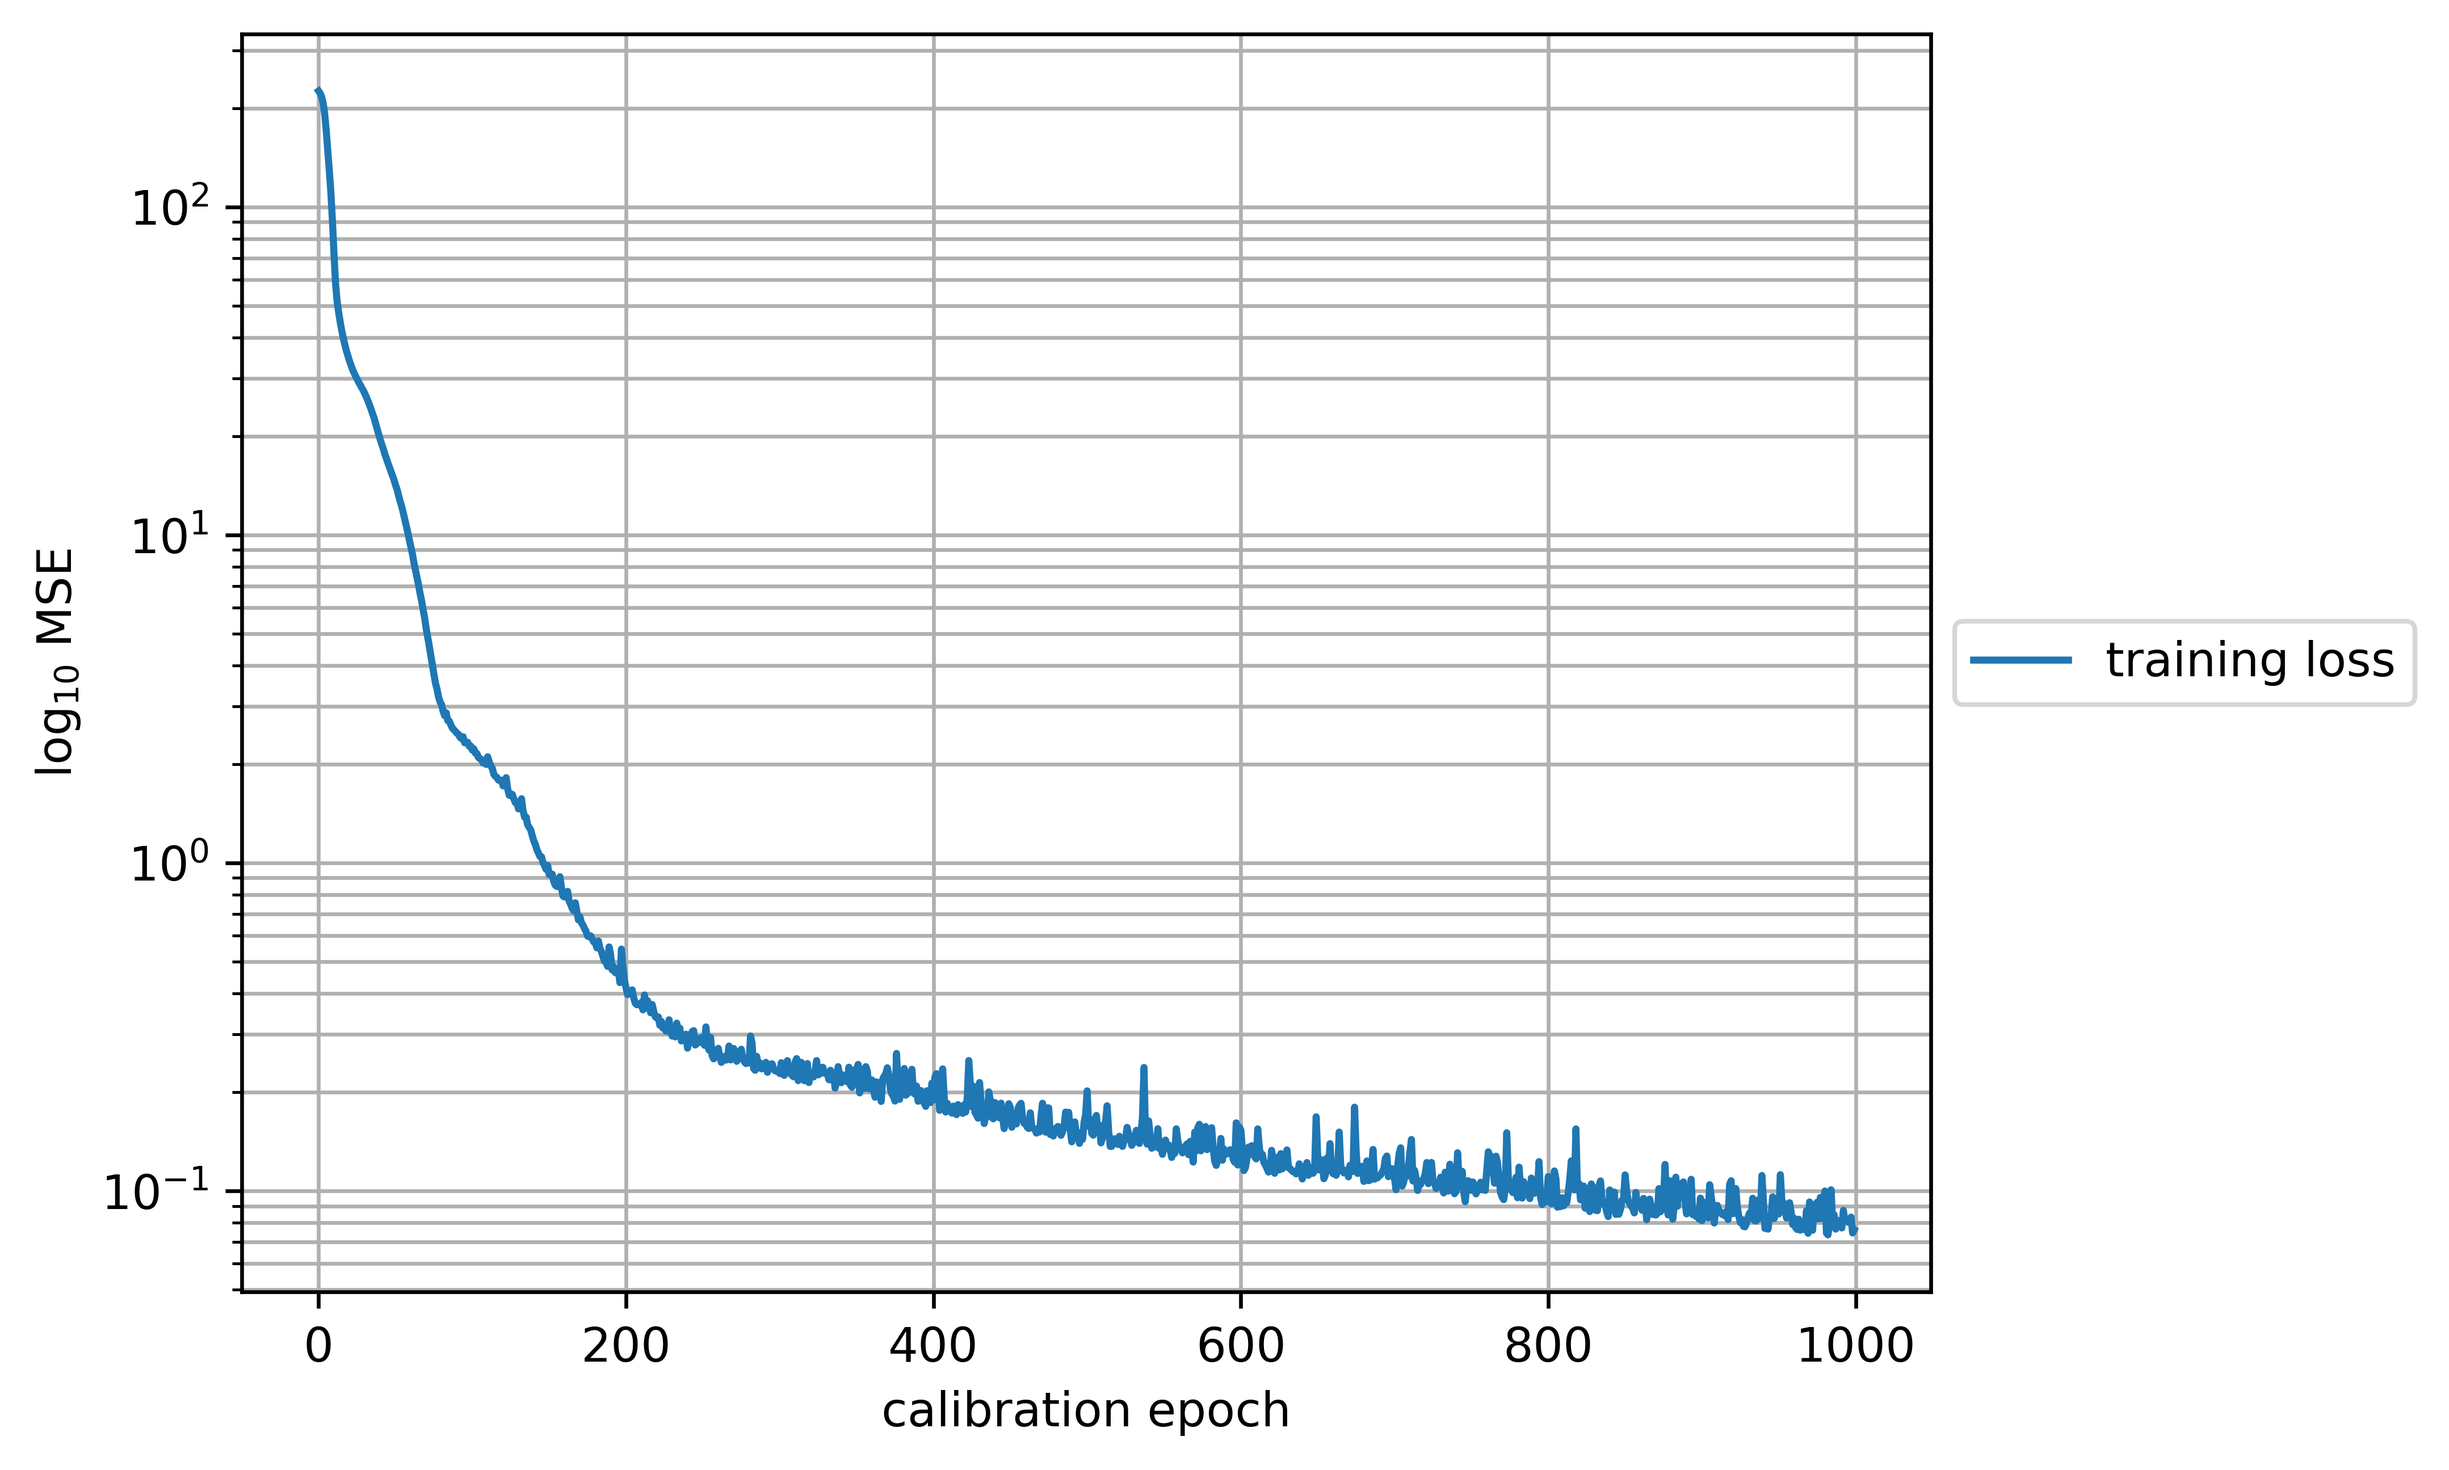
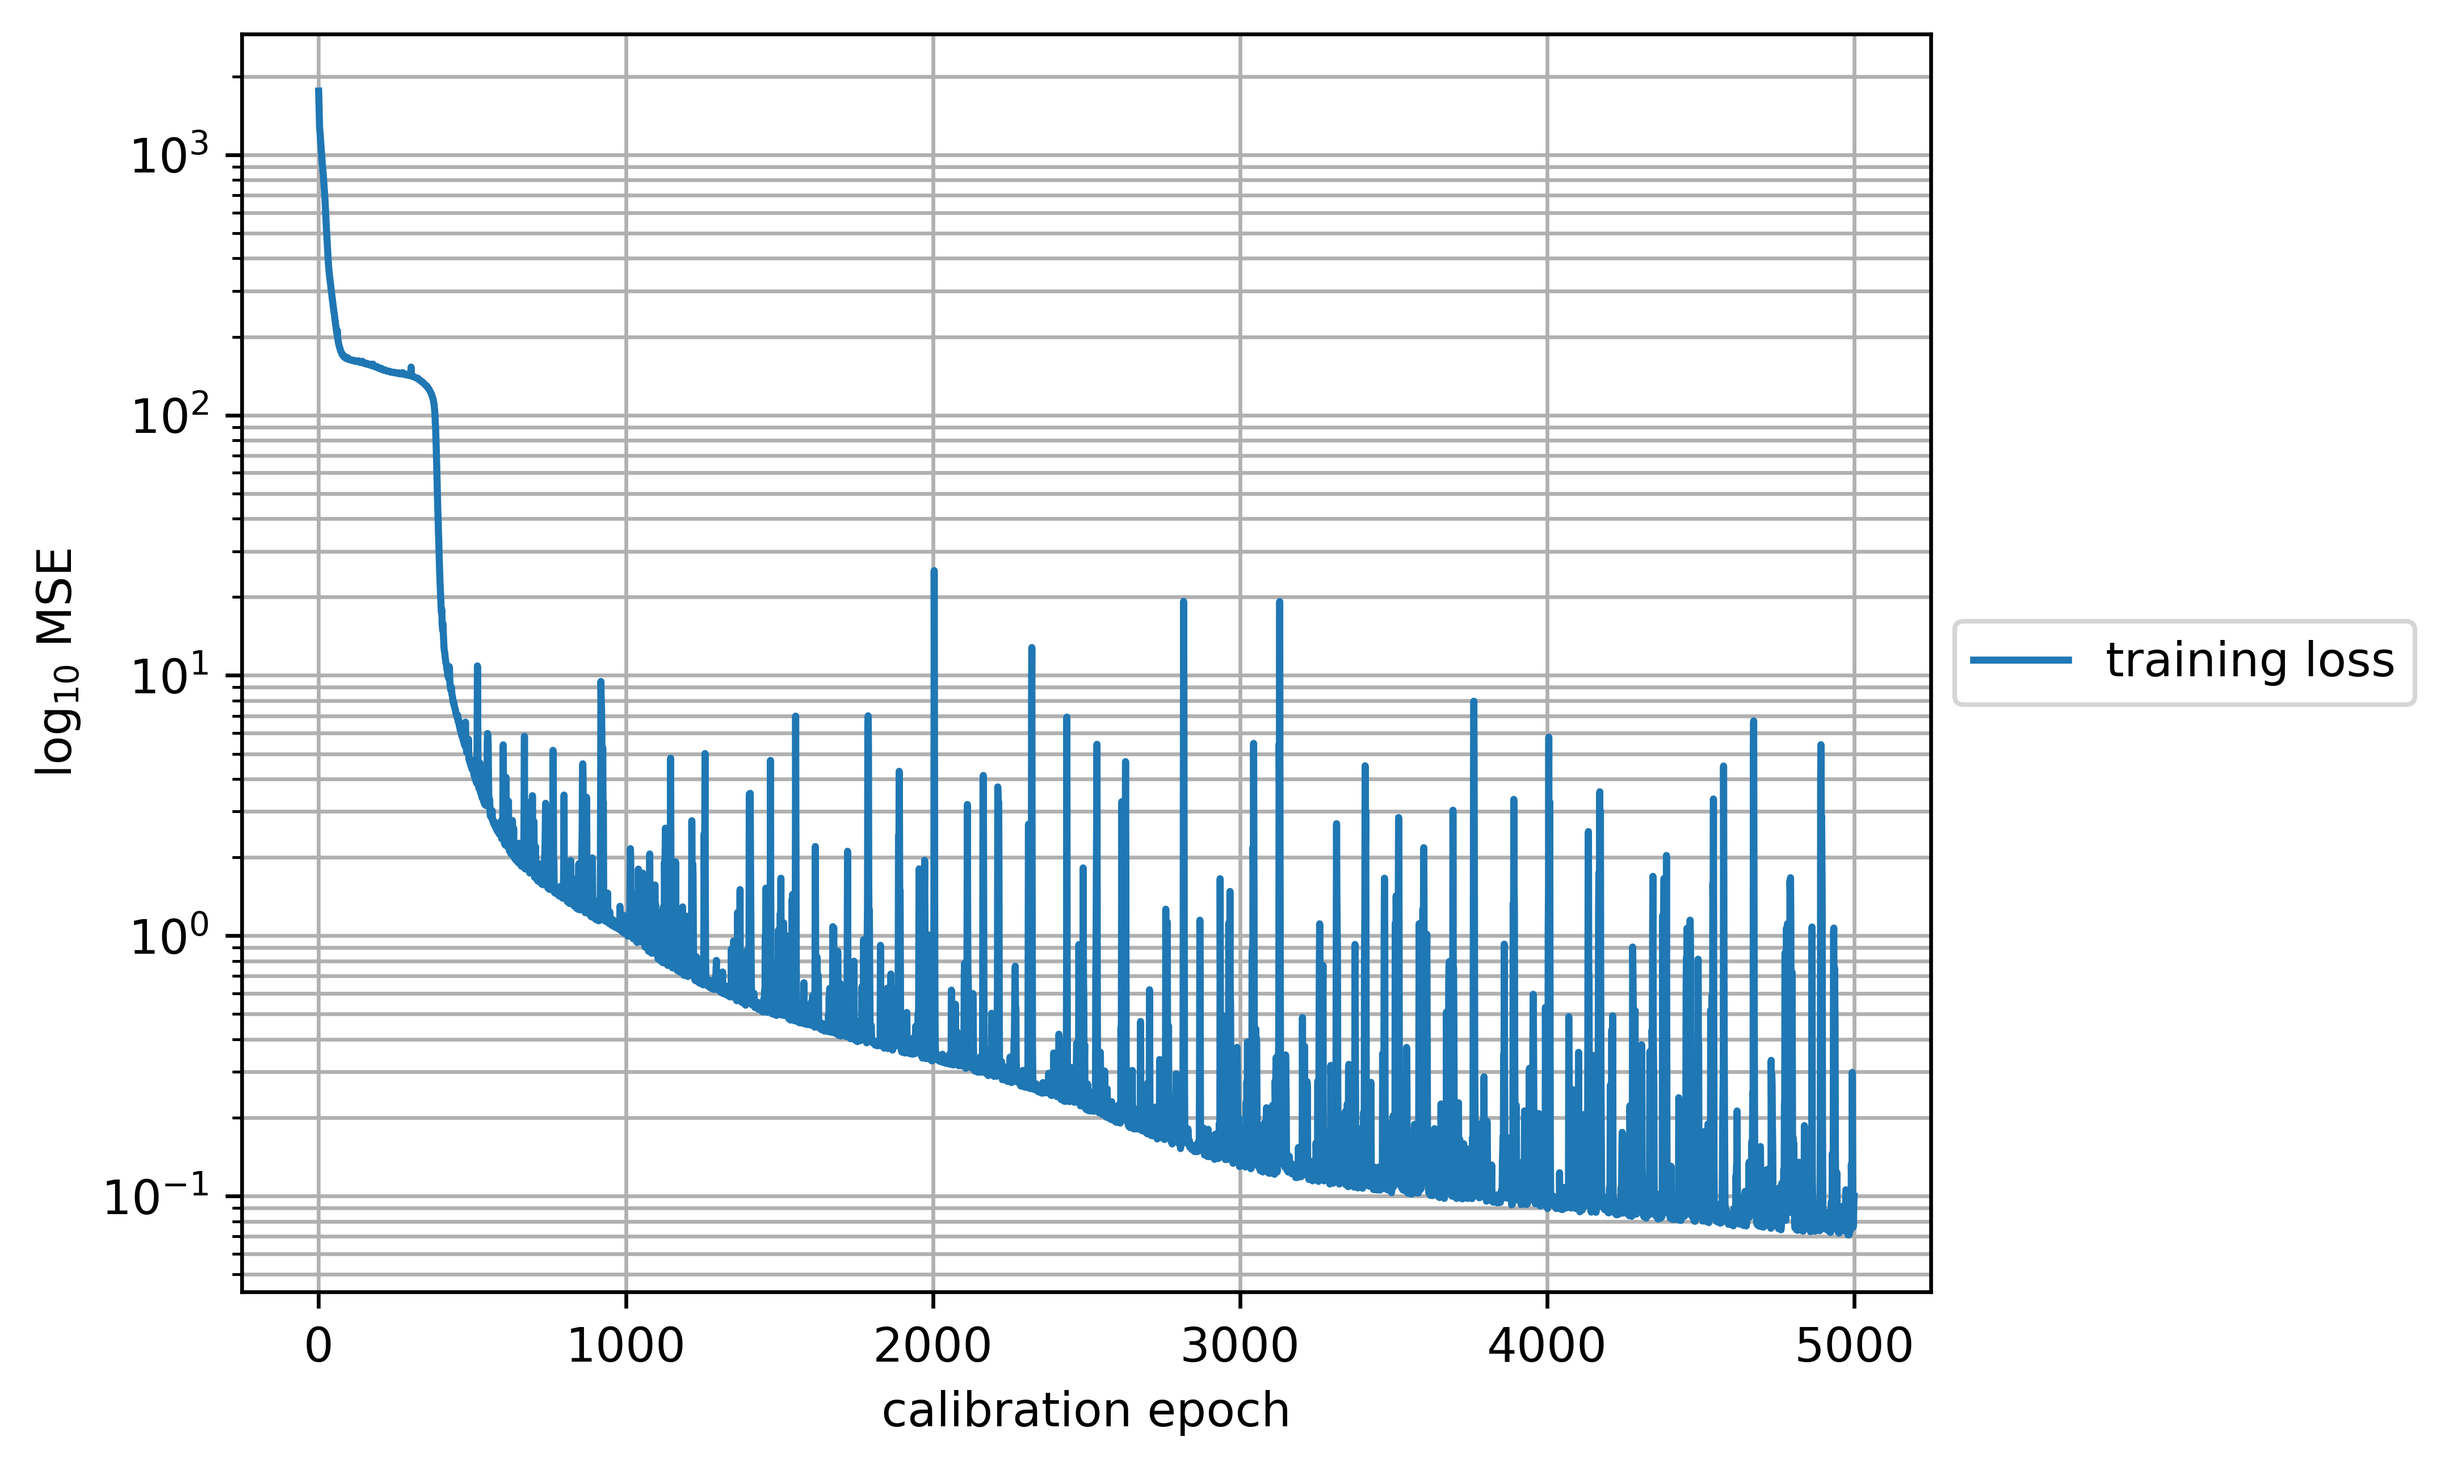
Cubic Anisotropy and working on Deform. grad. based NN

Changed region(s): [[0.0621, 0.0309, 0.8074, 0.9263], [0.0311, 0.8028, 0.0621, 0.8337]]

diff --git a/02_hyperelasticity_I/modules/models.py b/02_hyperelasticity_I/modules/models.py
@@ -72,7 +72,7 @@ class TransverseIsotropy(layers.Layer):
         self.lC = RightCauchyGreenTensor()
         self.lI = TransIsoInvariants()
         # define neural network
-        self.lNN = InputConvex()
+        self.lNN = InputConvexNonNeg()
 
     def __call__(self, x):
         y = self.lC(x)
@@ -89,13 +89,26 @@ class CubicAnisotropy(layers.Layer):
         self.lC = RightCauchyGreenTensor()
         self.lI = CubicAnisoInvariants()
         # define neural network
-        self.lNN = InputConvex()
+        self.lNN = InputConvexNonNeg()
 
     def __call__(self, x):
         y = self.lC(x)
         y = self.lI(x, y)
         y = self.lNN(y)
         return y
+
+class DeformationGradientBasedNN(layers.Layer):
+    '''  Wrapper layer for deformation gradient based, polyconvex physics augmented neural networks'''
+    def __init__(self):
+        # define non-trainable layers
+        self.ls = [PolyconvexArguments()]
+        # define neutral network
+        self.ls += [InputConvex()]
+
+    def __call__(self, x):
+        for l in self.ls:
+            x = l(x)
+        return x
 
 # %%   
 """
@@ -133,7 +146,25 @@ class FeedForward(layers.Layer):
         return x
 
 class InputConvex(layers.Layer):
-    """ Layer that implements an input convex neural network """
+    ''' Layer that implements an input convex neural network  '''
+    def __init__(self):
+        super().__init__()
+        # define hidden layers with activation functions
+        self.ls = [layers.Dense(8, 'softplus')]
+        self.ls += [layers.Dense(8, 'softplus', kernel_constraint=non_neg())]
+        self.ls += [layers.Dense(8, 'softplus', kernel_constraint=non_neg())]
+        # scalar-valued output function
+        self.ls += [layers.Dense(1, kernel_constraint=non_neg())]
+
+    def call(self, x):
+        #  create weights by calling on input
+        for l in self.ls:
+            x = l(x)
+        return x
+
+class InputConvexNonNeg(layers.Layer):
+    ''' Layer that implements an input convex neural network
+    with non-negative weights in the first hidden layer  '''
     def __init__(self):
         super().__init__()
         # define hidden layers with activation functions
@@ -162,6 +193,19 @@ class RightCauchyGreenTensor(layers.Layer):
  
     def __call__(self, F):
         return tf.einsum('ikj,ikl->ijl', F, F)
+
+
+class PolyconvexArguments(layers.Layer):
+    ''' Layer that computes die arguments F, cofactor F and det(F) for the poly-
+    convex potential function '''
+    def __init__(self):
+        super().__init__()
+
+    def __call__(self, F):
+        F_inv = tf.linalg.inv(F)
+        Cof_F = tf.linalg.det(F)[:, tf.newaxis, tf.newaxis] * F_inv
+        detF = tf.linalg.det(F)
+        return tf.stack([F_inv, Cof_F, detF], axis = 1) #TODO make sure that these values are actually stackable
 
 
 class TransIsoInvariants(layers.Layer):

diff --git a/02_hyperelasticity_I/main_cubic_anisotropy.py b/02_hyperelasticity_I/main_cubic_anisotropy.py
@@ -29,24 +29,21 @@ import modules.training as training
 # %% Training
 
 paths = [
-    'data/calibration/biaxial.txt',
-    'data/calibration/pure_shear.txt',
-    'data/calibration/uniaxial.txt',
-    'data/test/biax_test.txt',
-    'data/test/mixed_test.txt'
+    'data/03_hyperelasticity_II/soft_beam_lattice_metamaterials/data/BCC_uniaxial.txt',
+    'data/03_hyperelasticity_II/soft_beam_lattice_metamaterials/data/BCC_biaxial.txt',
+    'data/03_hyperelasticity_II/soft_beam_lattice_metamaterials/data/BCC_shear.txt',
+    'data/03_hyperelasticity_II/soft_beam_lattice_metamaterials/data/BCC_volumetric.txt',
+    'data/03_hyperelasticity_II/soft_beam_lattice_metamaterials/data/BCC_planar.txt',
+    'data/03_hyperelasticity_II/soft_beam_lattice_metamaterials/data/BCC_test1.txt',
+    'data/03_hyperelasticity_II/soft_beam_lattice_metamaterials/data/BCC_test2.txt',
+    'data/03_hyperelasticity_II/soft_beam_lattice_metamaterials/data/BCC_test3.txt'
     ]
 
-#Alternative: concentric data
-FNUM = 100
-# fnum = tf.random.shuffle(np.arange(1,FNUM + 1))
-# paths = ld.generate_concentric_paths(fnum)
-
 lw = [1, 1]
-loss_weighting=True
 
-tmodel = training.TransverseIsotropy(paths=paths[:1],
+tmodel = training.CubicAnisotropy(paths=paths[:4],
                                 loss_weights=lw,
-                                loss_weighting=loss_weighting)
+                                loss_weighting=True)
 
 tmodel.calibrate(epochs=5000, verbose=2)
 
@@ -58,10 +55,10 @@ print(f'P(I) =\t{dys_I[0,0]}\n\t{dys_I[0,1]}\n\t{dys_I[0,2]}')
 
 # %% Loss evalutation
 
-results = tmodel.evaluate(paths[:1], showplots=False)
+results = tmodel.evaluate(paths[:], showplots=True)
 loss = pd.DataFrame(results, columns=['total', 'W', 'P'])
 loss['total'] = loss['W'] + loss['P'] # in case some loss weights != 0
-loss['paths'] = paths[:1]
+loss['paths'] = paths[:]
 loss
 
 # %% Model parameters

diff --git a/02_hyperelasticity_I/main_tansverse_isotropy.py b/02_hyperelasticity_I/main_tansverse_isotropy.py
@@ -42,11 +42,10 @@ FNUM = 100
 # paths = ld.generate_concentric_paths(fnum)
 
 lw = [1, 1]
-loss_weighting=True
 
 tmodel = training.TransverseIsotropy(paths=paths[:1],
                                 loss_weights=lw,
-                                loss_weighting=loss_weighting)
+                                loss_weighting=True)
 
 tmodel.calibrate(epochs=5000, verbose=2)
 
